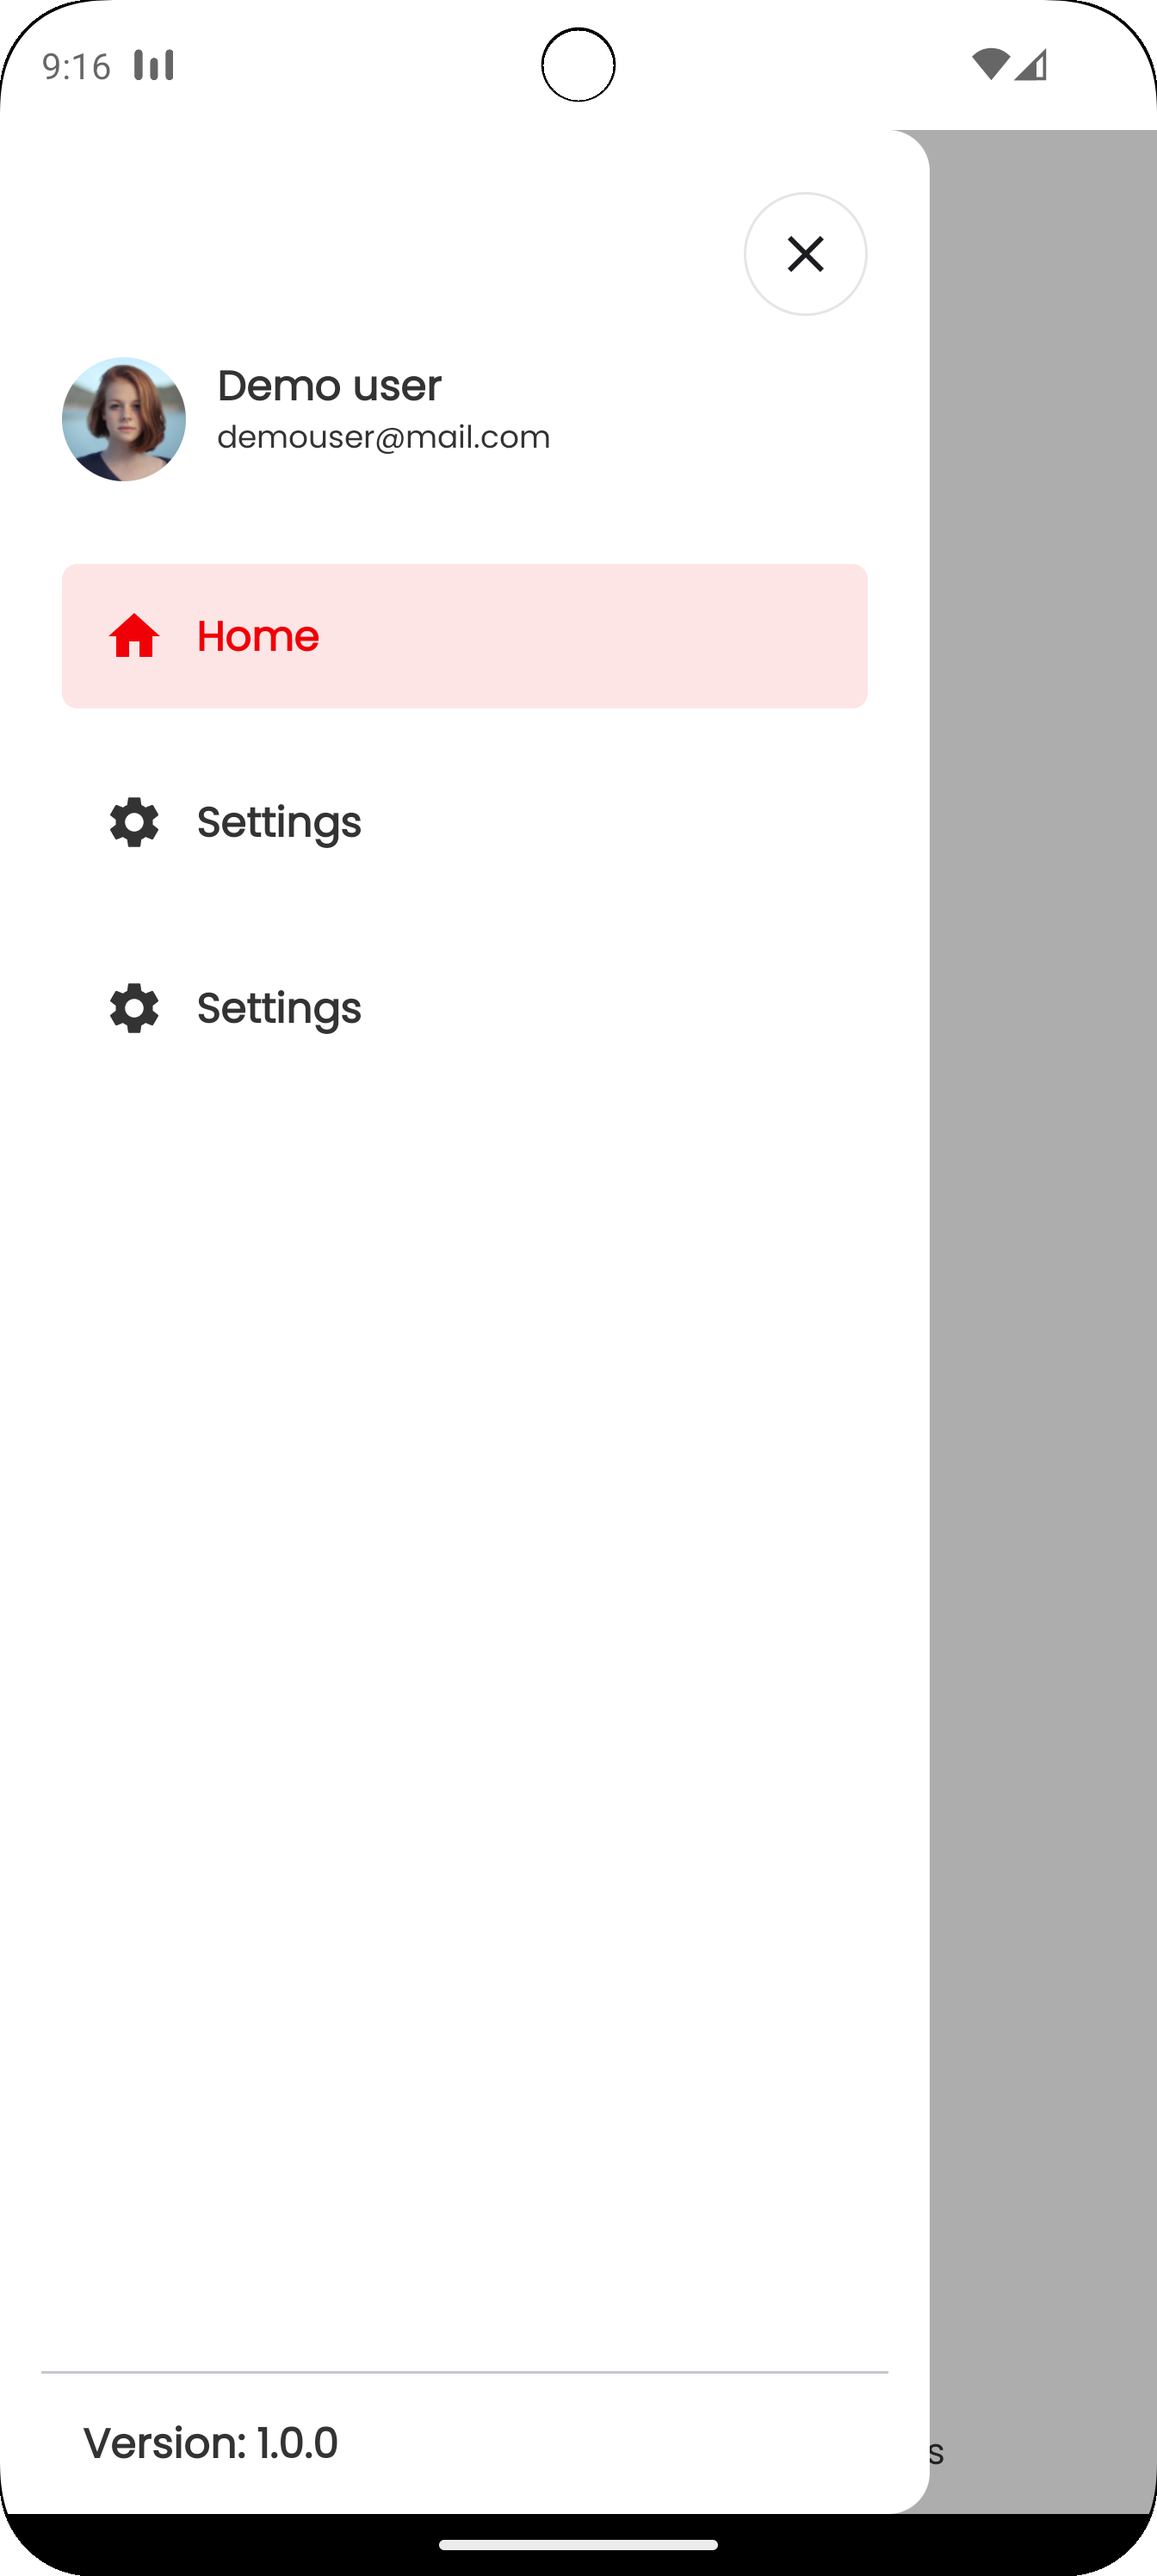
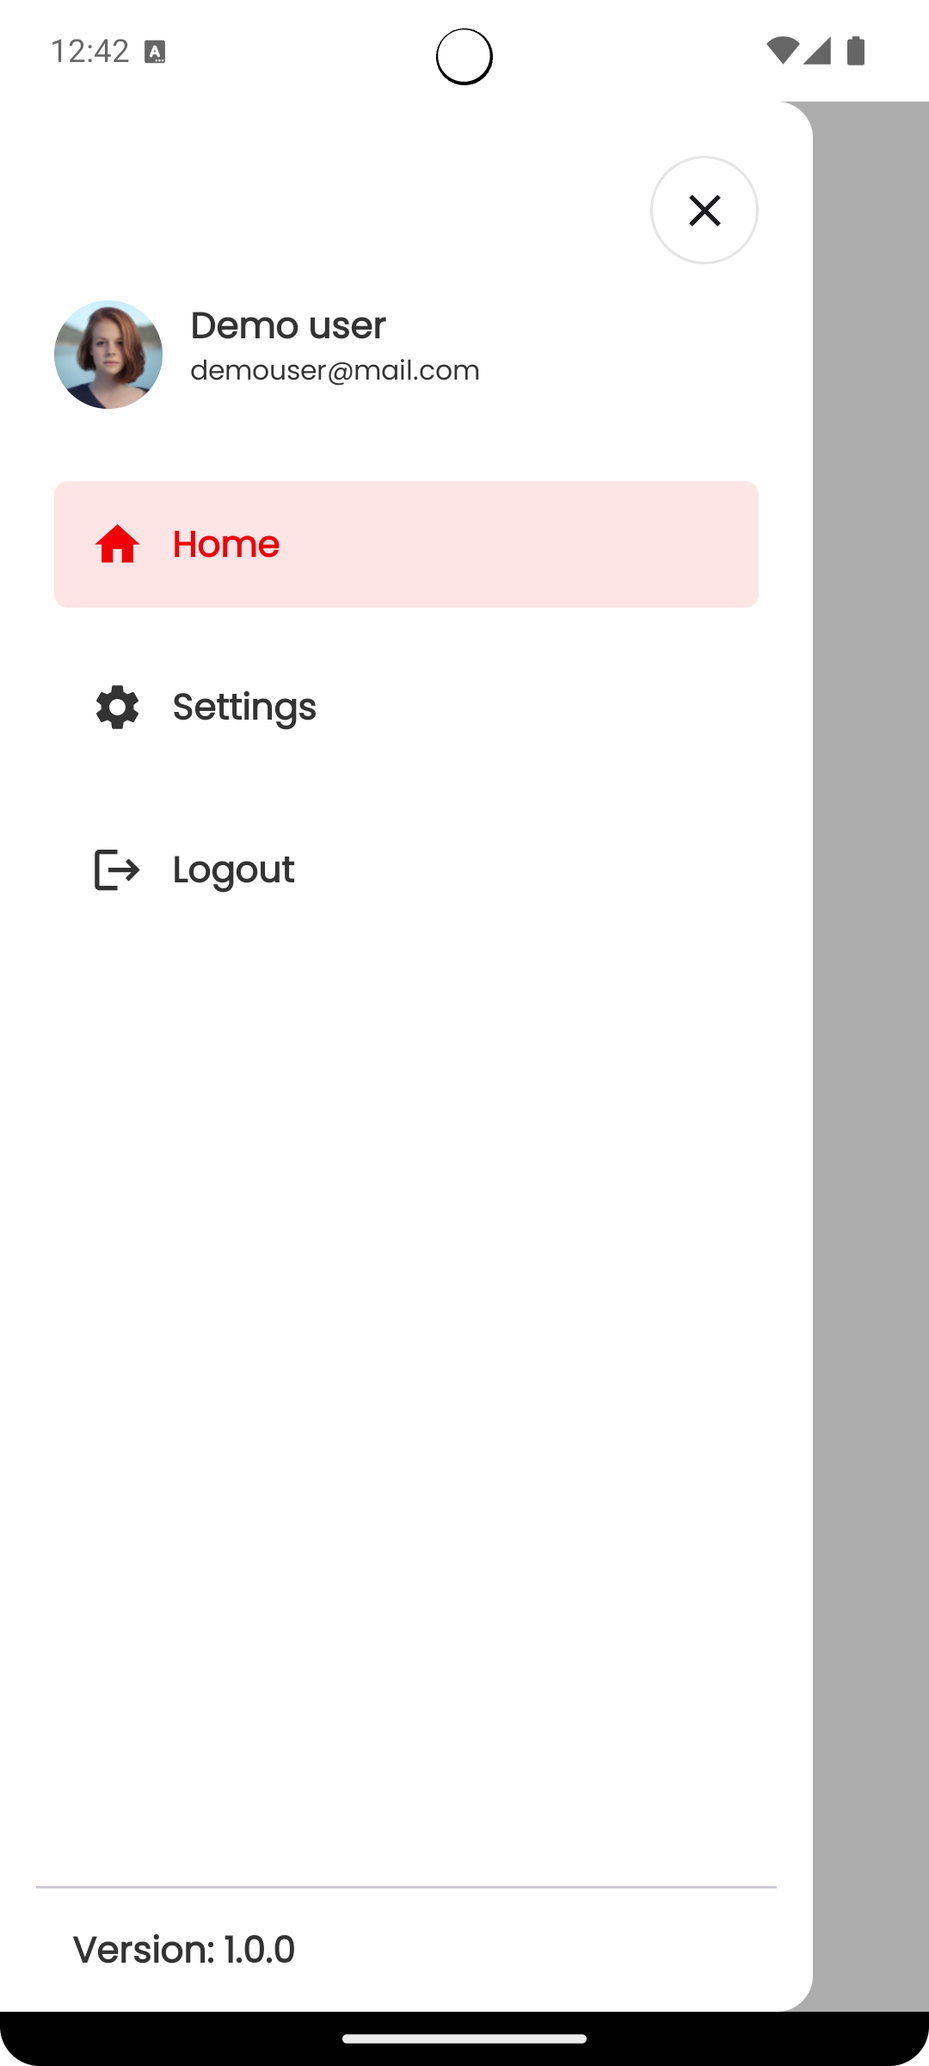
readme: update readme.md

diff --git a/sample/src/main/java/com/foss/sample/SampleMainActivity.kt b/sample/src/main/java/com/foss/sample/SampleMainActivity.kt
@@ -22,10 +22,12 @@ import androidx.compose.runtime.rememberCoroutineScope
 import androidx.compose.ui.Modifier
 import androidx.compose.ui.platform.LocalContext
 import androidx.compose.ui.platform.LocalFocusManager
+import androidx.compose.ui.res.painterResource
 import androidx.navigation.NavDestination.Companion.hierarchy
 import androidx.navigation.compose.currentBackStackEntryAsState
 import androidx.navigation.compose.rememberNavController
 import com.foss.core_ui.MQLKTheme
+import com.foss.core_ui.R
 import com.foss.core_ui.navigation.MQLKNavItem
 import com.foss.core_ui.navigation.MQLKScreens
 import com.foss.core_ui.rememberWindowSizeClass
@@ -110,8 +112,8 @@ fun MyApp() {
                 }, onClickAction = {})
             },
             {
-                MQLKNavigationDrawerItem(name = "Settings", isSelected = false, icon = {
-                    Icon(Icons.Default.Settings, null)
+                MQLKNavigationDrawerItem(name = "Logout", isSelected = false, icon = {
+                    Icon(painterResource(id = R.drawable.baseline_logout), null)
 
                 }, onClickAction = {})
             },

diff --git a/core_ui/src/main/java/com/foss/core_ui/widgets/MQLKModelNavigationDrawerWrapper.kt b/core_ui/src/main/java/com/foss/core_ui/widgets/MQLKModelNavigationDrawerWrapper.kt
@@ -40,7 +40,7 @@ fun MQLKModelNavigationDrawerWrapper(
                 Spacer(modifier = Modifier.weight(1f))
                 HorizontalDivider(Modifier.padding(horizontal = 16.dp))
                 Text(
-                    "Version: 1.0.0",
+                    "App Version: v1.0.0(1)",
                     style = MaterialTheme.typography.bodyMedium.copy(
                         fontWeight = FontWeight.W700
                     ),
